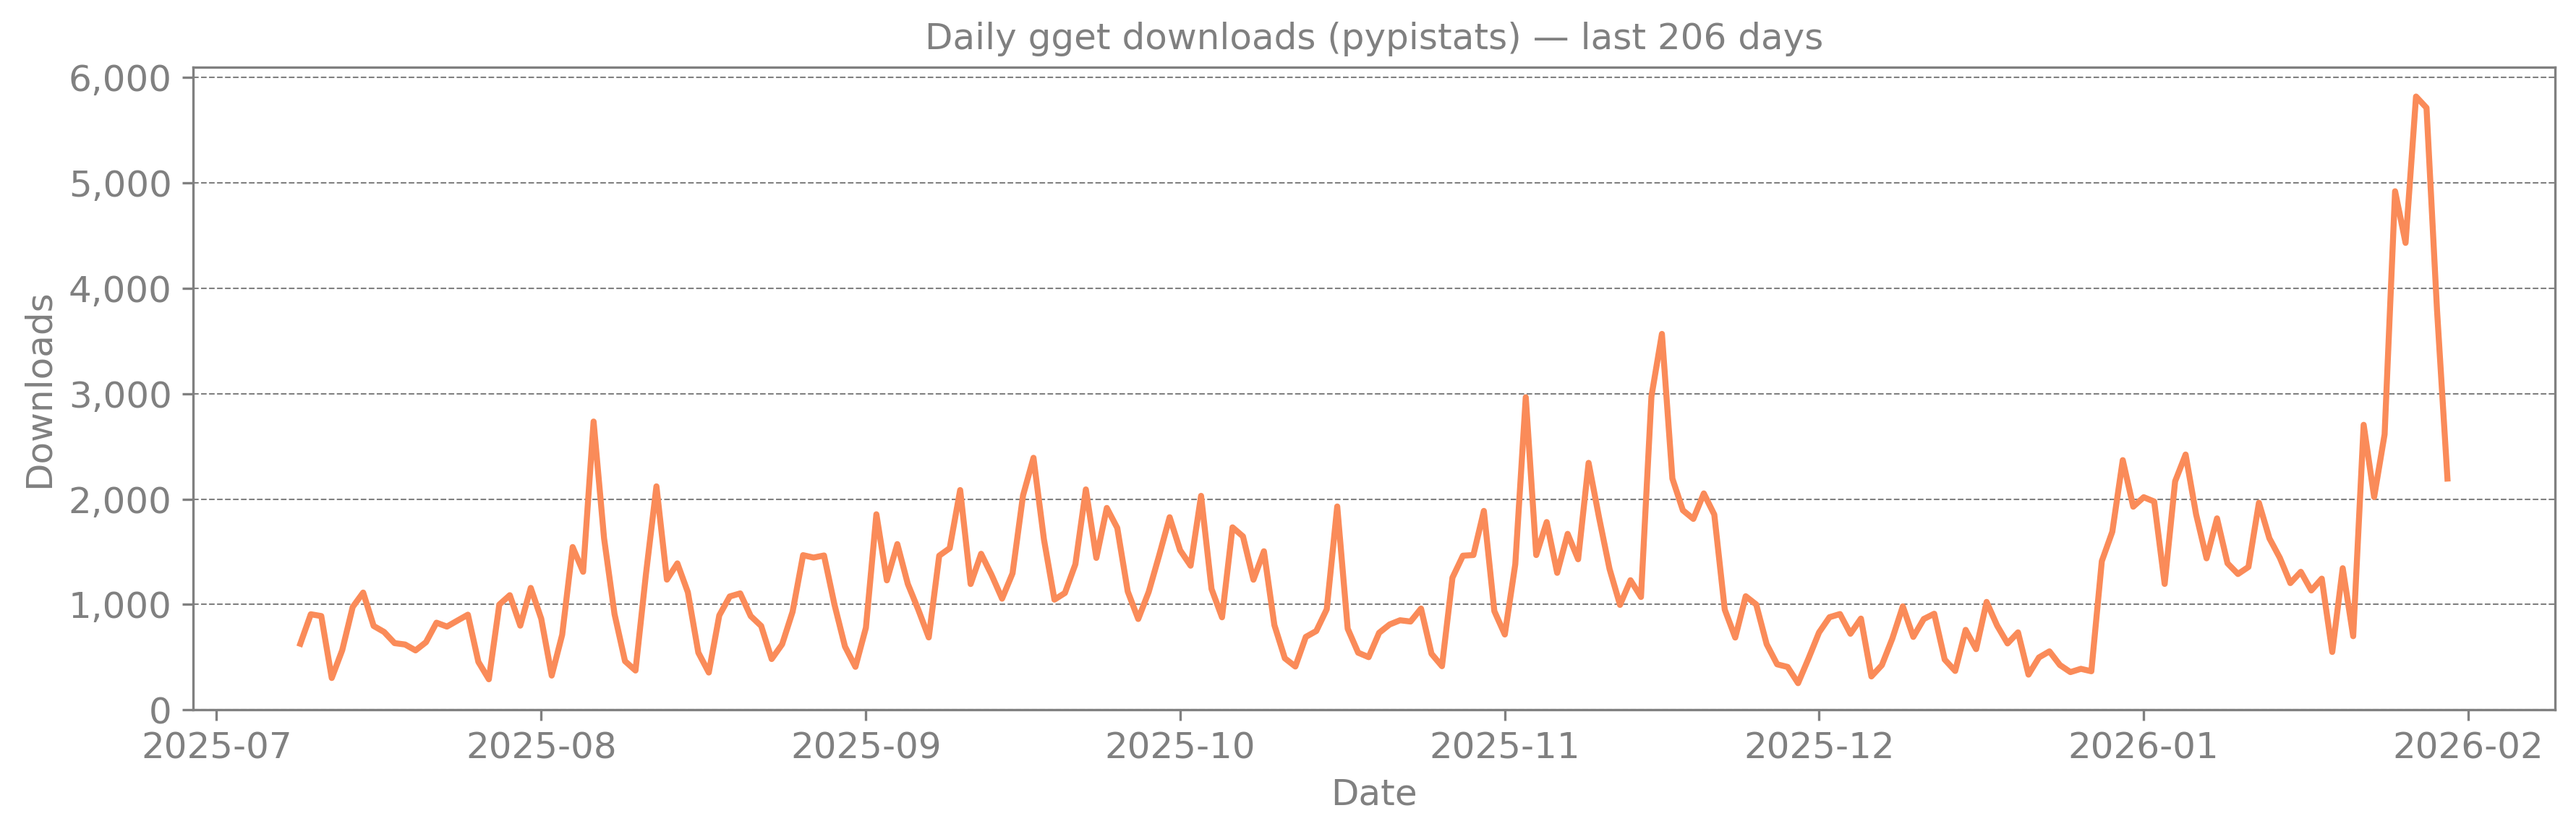
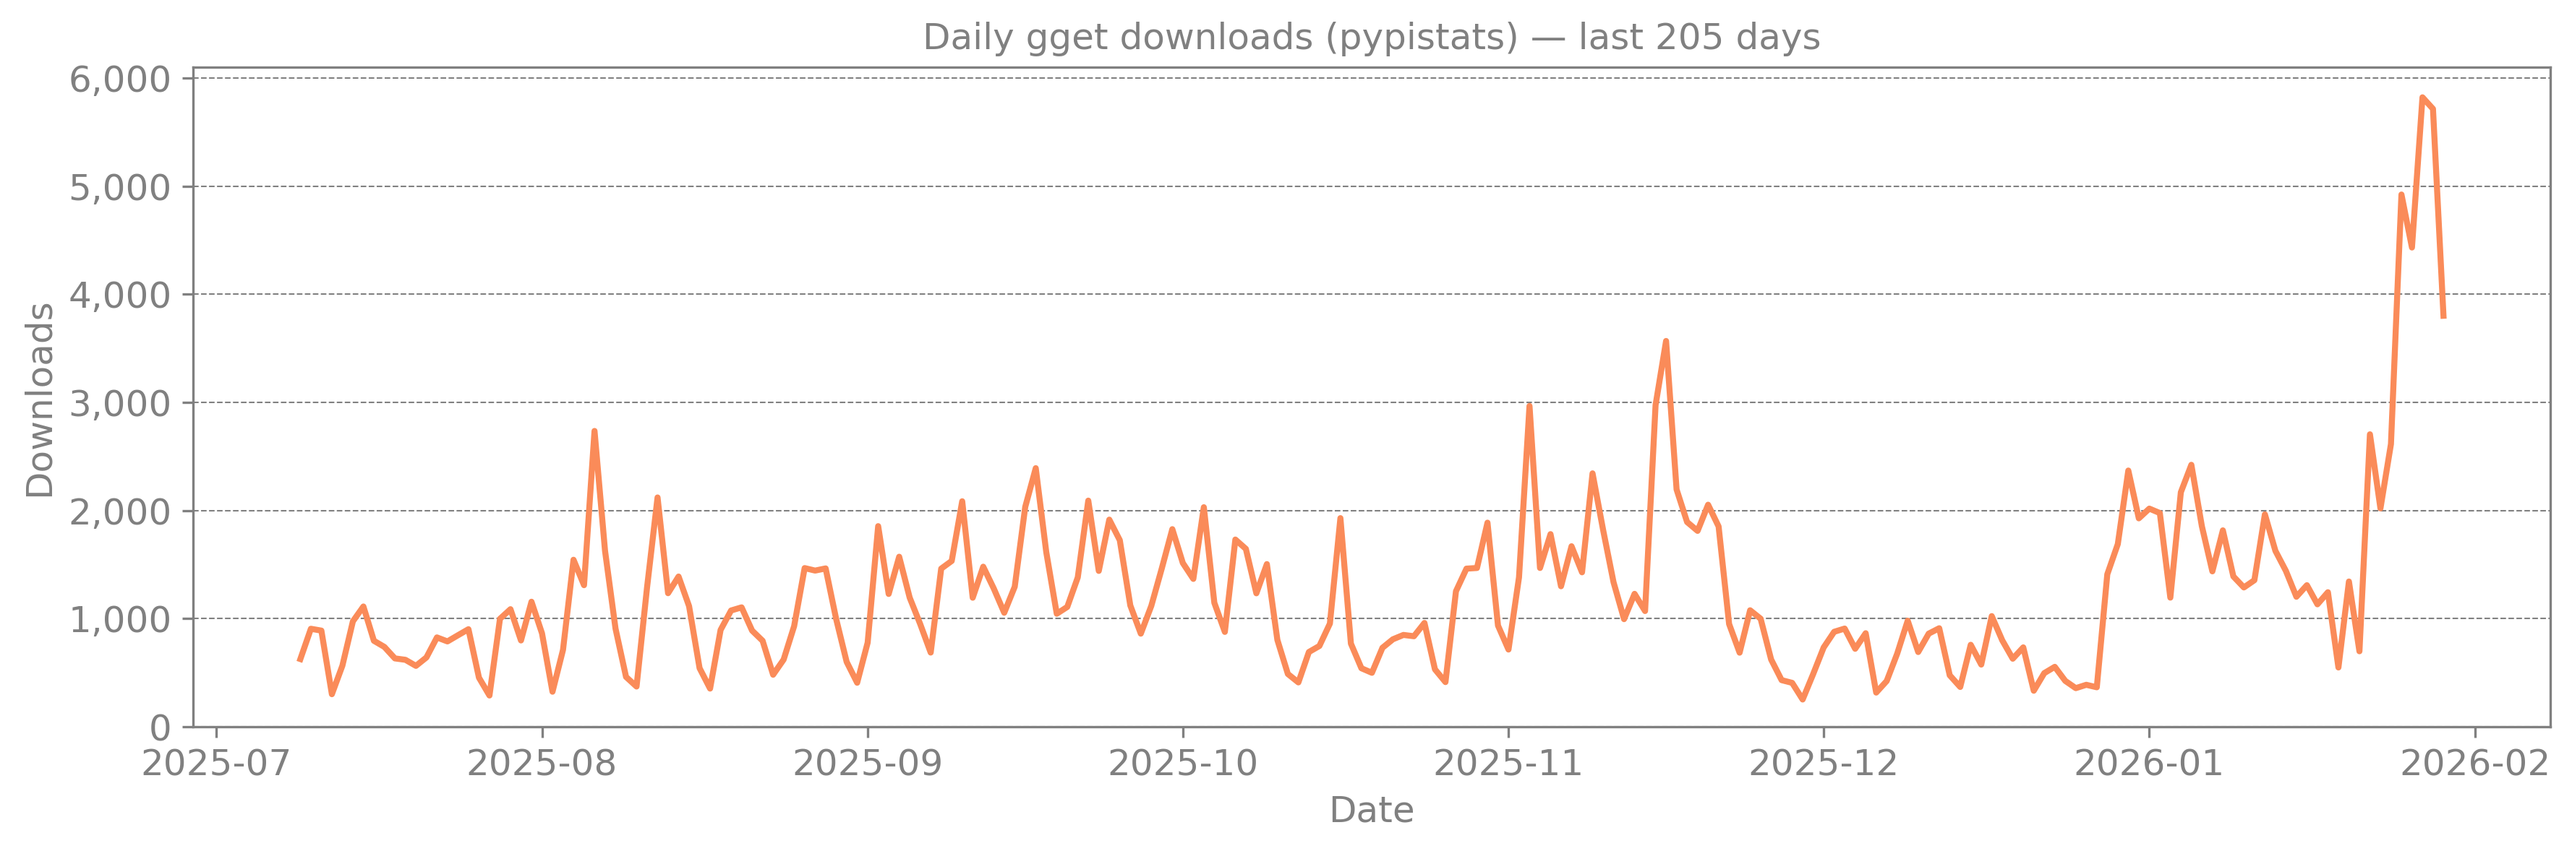
Add mirror status breakdown (with_mirrors vs without_mirrors)

diff --git a/scripts/plot_categorical_downloads.py b/scripts/plot_categorical_downloads.py
@@ -13,7 +13,7 @@ import requests
 
 def fetch_pypistats_categorical(package: str, endpoint: str) -> pd.DataFrame:
     """
-    Fetch categorical pypistats data (python_major, python_minor, or system).
+    Fetch categorical pypistats data (python_major, python_minor, system, or overall).
     Returns DataFrame with columns: date, category, downloads
     """
     url = f"https://pypistats.org/api/packages/{package}/{endpoint}"
@@ -153,7 +153,7 @@ def plot_categorical_series(
         ax.plot(pivot.index, pivot[col], color=colors[i], lw=1.5, label=col)
 
     # Format endpoint name for title
-    endpoint_display = endpoint.replace("_", " ")
+    endpoint_display = "mirror status" if endpoint == "overall" else endpoint.replace("_", " ")
     ax.set_title(
         f"Daily {package} downloads by {endpoint_display} — last {len(pivot)} days",
         fontsize=fontsize,
@@ -190,7 +190,7 @@ def main() -> None:
     parser.add_argument(
         "--endpoint",
         required=True,
-        choices=["python_major", "python_minor", "system"],
+        choices=["python_major", "python_minor", "system", "overall"],
         help="pypistats categorical endpoint",
     )
     parser.add_argument("--out", required=True, help="Output PNG path")

diff --git a/README.md b/README.md
@@ -25,11 +25,15 @@ time series going forward.
 ### Downloads by Operating System
 ![gget downloads by operating system](plots/downloads_gget_system.png)
 
+### Downloads by Mirror Status
+![gget downloads by mirror status](plots/downloads_gget_overall.png)
+
 ## Output
 - `plots/downloads_gget.png`
 - `plots/downloads_gget_python_major.png`
 - `plots/downloads_gget_python_minor.png`
 - `plots/downloads_gget_system.png`
+- `plots/downloads_gget_overall.png`
 
 Automatically runs daily via GitHub Actions.
 
